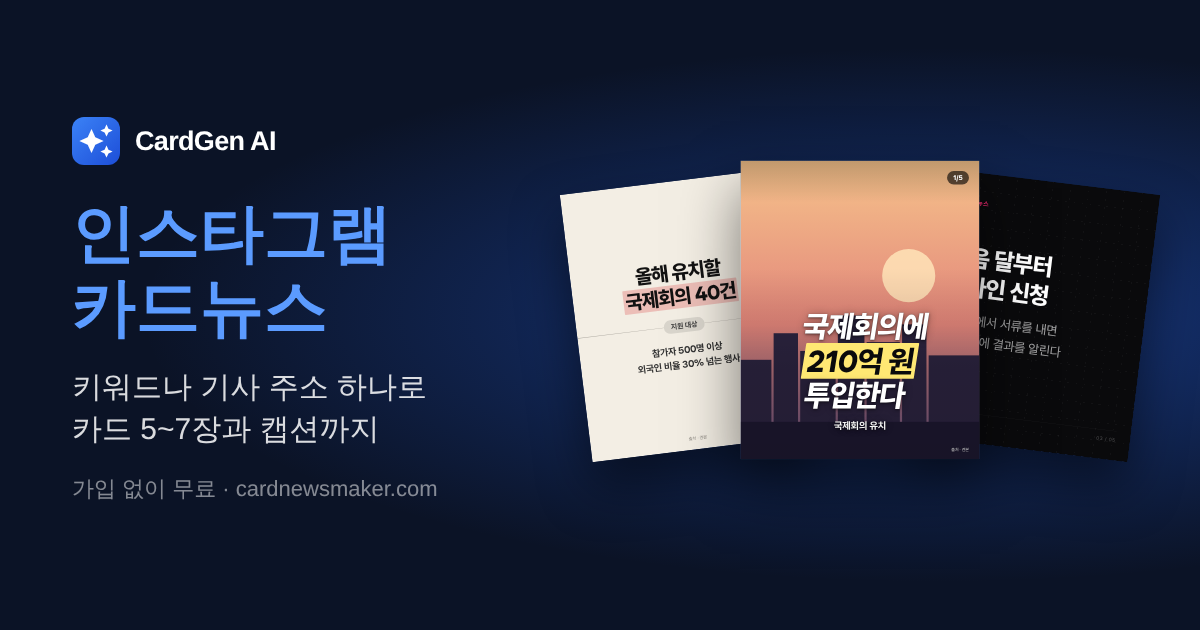
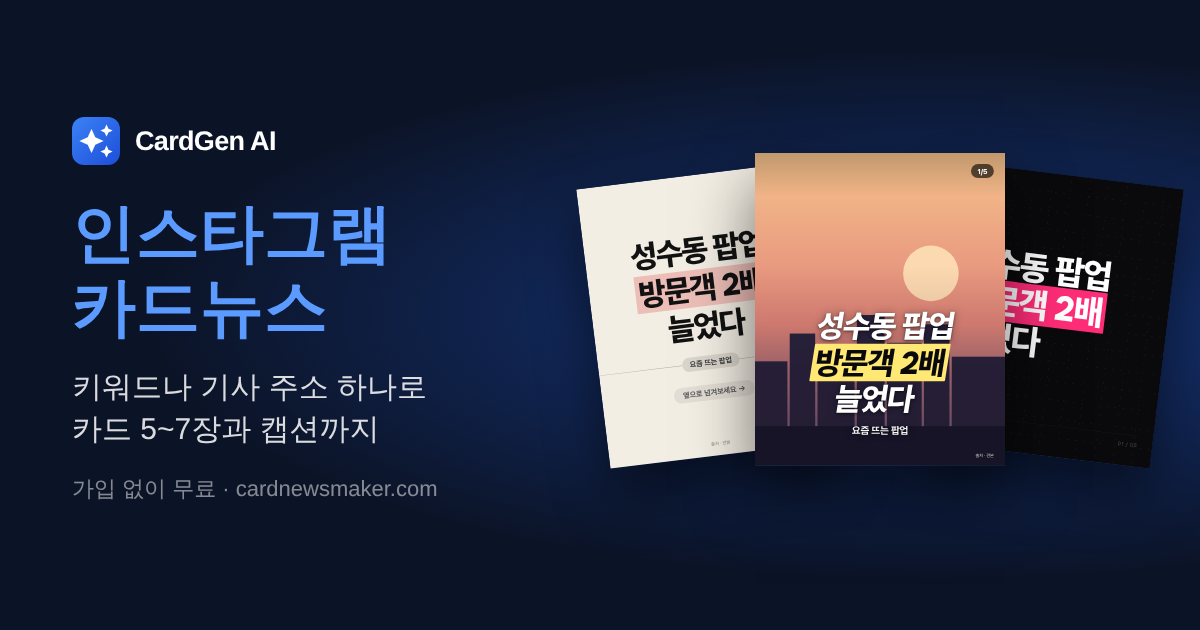
MICE 흔적 정리: 견본 카드·입력 예시·사용법 예시를 일반 주제로, 기본 사진 검색어와 출력 예시의 행사장 검색어 걷어내기(한글 검색어는 버림), 링크 미리보기 그림 다시 찍음
Claude-Session: https://claude.ai/code/session_016NT5URqRHLCyXeM2hLDEvC

Changed region(s): [[0.4625, 0.2413, 0.9867, 0.754]]

diff --git a/src/app/api/generate/route.ts b/src/app/api/generate/route.ts
@@ -210,7 +210,7 @@ ${copy === "caption" ? CAPTION_COPY_RULES + "\n" : ""}
       "sub": "표지 위쪽 작은 소제목",
       "heading": ["표지 첫 줄", "==둘째 줄==", "셋째 줄", "넷째 줄"],
       "body": [],
-      "imageQuery": "convention center exterior"
+      "imageQuery": "영어 2~4단어, 이 장의 장면"
     },
     {
       "kind": "detail",
@@ -218,12 +218,12 @@ ${copy === "caption" ? CAPTION_COPY_RULES + "\n" : ""}
       "sub": "예산",
       "heading": ["상세 헤드라인"],
       "body": ["본문 첫 줄에 *수치 42건*", "본문 둘째 줄"],
-      "imageQuery": "conference audience"
+      "imageQuery": "영어 2~4단어, 이 장의 장면"
     }
   ],
   "caption": "${copy === "caption" ? "인스타그램 캡션 4~7줄. 카드에 못 담은 사실을 여기에. 줄바꿈은 \\n 으로 표기 (350자 이내)" : "인스타그램 캡션 3~5줄. 줄바꿈은 \\n 으로 표기 (200자 이내)"}",
   "hashtags": ["해시태그1", "해시태그2", "해시태그3", "해시태그4", "해시태그5"],
-  "imageQuery": "convention center",
+  "imageQuery": "영어 2~4단어, 세트를 대표하는 장면",
   "source": { "name": "출처 매체명", "url": "" }
 }
 
@@ -262,11 +262,11 @@ async function generateOnce(
   });
   const raw = extractJson(response.text ?? "");
   const result = normalizeCardNews(raw);
+  // 사진 검색어는 영어여야 한다. 출력 예시의 설명 문구("영어 2~4단어, …")를 그대로 따라 쓰거나 한글로
+  // 적으면 버린다. 장 검색어가 비면 세트 검색어로, 그것도 비면 미리보기의 기본 검색어로 찾는다.
+  const englishQuery = (q: unknown) => (typeof q === "string" && !/[가-힣]/.test(q) ? q.trim().slice(0, 80) : "");
   // 사진 검색어는 카드 데이터가 아니라서 정리 함수가 버린다. 따로 꺼낸다.
-  const imageQuery =
-    typeof raw === "object" && raw !== null && typeof (raw as { imageQuery?: unknown }).imageQuery === "string"
-      ? ((raw as { imageQuery: string }).imageQuery).slice(0, 80)
-      : "";
+  const imageQuery = englishQuery(typeof raw === "object" && raw !== null ? (raw as { imageQuery?: unknown }).imageQuery : "");
   // 장수가 범위를 벗어나면 형식 오류와 같이 다룬다. 바깥의 재시도가 더 엄한
   // 안내로 다시 부른다. 넘친 장을 잘라 내면 마무리 장이 사라진다.
   const count = result.slides.length;
@@ -279,8 +279,7 @@ async function generateOnce(
       ? ((raw as { slides: unknown[] }).slides)
       : [];
   const slideQueries = result.slides.map((_, i) => {
-    const q = (rawSlides[i] as { imageQuery?: unknown } | undefined)?.imageQuery;
-    return typeof q === "string" ? q.slice(0, 80) : "";
+    return englishQuery((rawSlides[i] as { imageQuery?: unknown } | undefined)?.imageQuery);
   });
   return { result, imageQuery, slideQueries };
 }

diff --git a/src/app/preview/page.tsx b/src/app/preview/page.tsx
@@ -203,8 +203,9 @@ function PreviewContent() {
     setUploadError(null);
     setPhotoBusy(true);
     try {
-      // 예전 결과에는 검색어가 남아 있지 않다. 그때는 일반적인 행사장 컷을 찾는다.
-      const query = slide.photoQuery || data.photoQuery || "convention center";
+      // 예전 결과에는 검색어가 남아 있지 않다. 그때는 어느 분야에도 어울리는 배경을 찾는다.
+      // (처음엔 MICE 전용이라 "convention center" 였다.)
+      const query = slide.photoQuery || data.photoQuery || "abstract background";
       const inUse = data.slides.map((sl) => slidePhoto(sl, data)?.pageUrl ?? "");
       const exclude = [...new Set([...(data.photoSeen ?? []), ...inUse])].filter(Boolean);
       const res = await fetch("/api/photo-search", {

diff --git a/src/app/page.tsx b/src/app/page.tsx
@@ -174,7 +174,7 @@ export default function LandingPage() {
                 </button>
               </div>
               <p className="text-white/30 text-xs mt-2 text-center leading-relaxed">
-                <Lines lines={["예: “국제회의 유치”, “성수동 팝업스토어”", "기사 주소를 넣으면 그 기사 내용으로만 만듭니다"]} />
+                <Lines lines={["예: “가을 패션 트렌드”, “성수동 팝업스토어”", "기사 주소를 넣으면 그 기사 내용으로만 만듭니다"]} />
               </p>
               {hydrated && history.length > 0 && (
                 <Link

diff --git a/src/app/guide/page.tsx b/src/app/guide/page.tsx
@@ -74,7 +74,7 @@ export default function GuidePage() {
             사진도 함께 찾습니다.
           </li>
           <li>
-            <strong>키워드나 기사 주소 넣기</strong> — 예: <code>부산 MICE</code>, <code>킨텍스 전시회</code>, 또는
+            <strong>키워드나 기사 주소 넣기</strong> — 예: <code>성수동 팝업스토어</code>, <code>가을 패션 트렌드</code>, 또는
             기사 주소. ‘생성하기’를 누릅니다.
           </li>
           <li>

diff --git a/src/components/SampleCards.tsx b/src/components/SampleCards.tsx
@@ -19,9 +19,9 @@ const SAMPLE = normalizeCardNews({
   slides: [
     {
       kind: "cover",
-      badge: "MICE 뉴스",
-      sub: "국제회의 유치",
-      heading: ["국제회의에", "==210억 원==", "투입한다"],
+      badge: "트렌드 소식",
+      sub: "요즘 뜨는 팝업",
+      heading: ["성수동 팝업", "==방문객 2배==", "늘었다"],
       body: [],
     },
   ],

diff --git a/src/components/TemplatePicker.tsx b/src/components/TemplatePicker.tsx
@@ -55,9 +55,9 @@ const SAMPLE = normalizeCardNews({
   slides: [
     {
       kind: "cover",
-      badge: "MICE 뉴스",
-      sub: "국제회의 유치",
-      heading: ["국제회의에", "==210억 원==", "투입한다"],
+      badge: "트렌드 소식",
+      sub: "요즘 뜨는 팝업",
+      heading: ["성수동 팝업", "==방문객 2배==", "늘었다"],
       body: [],
     },
   ],
